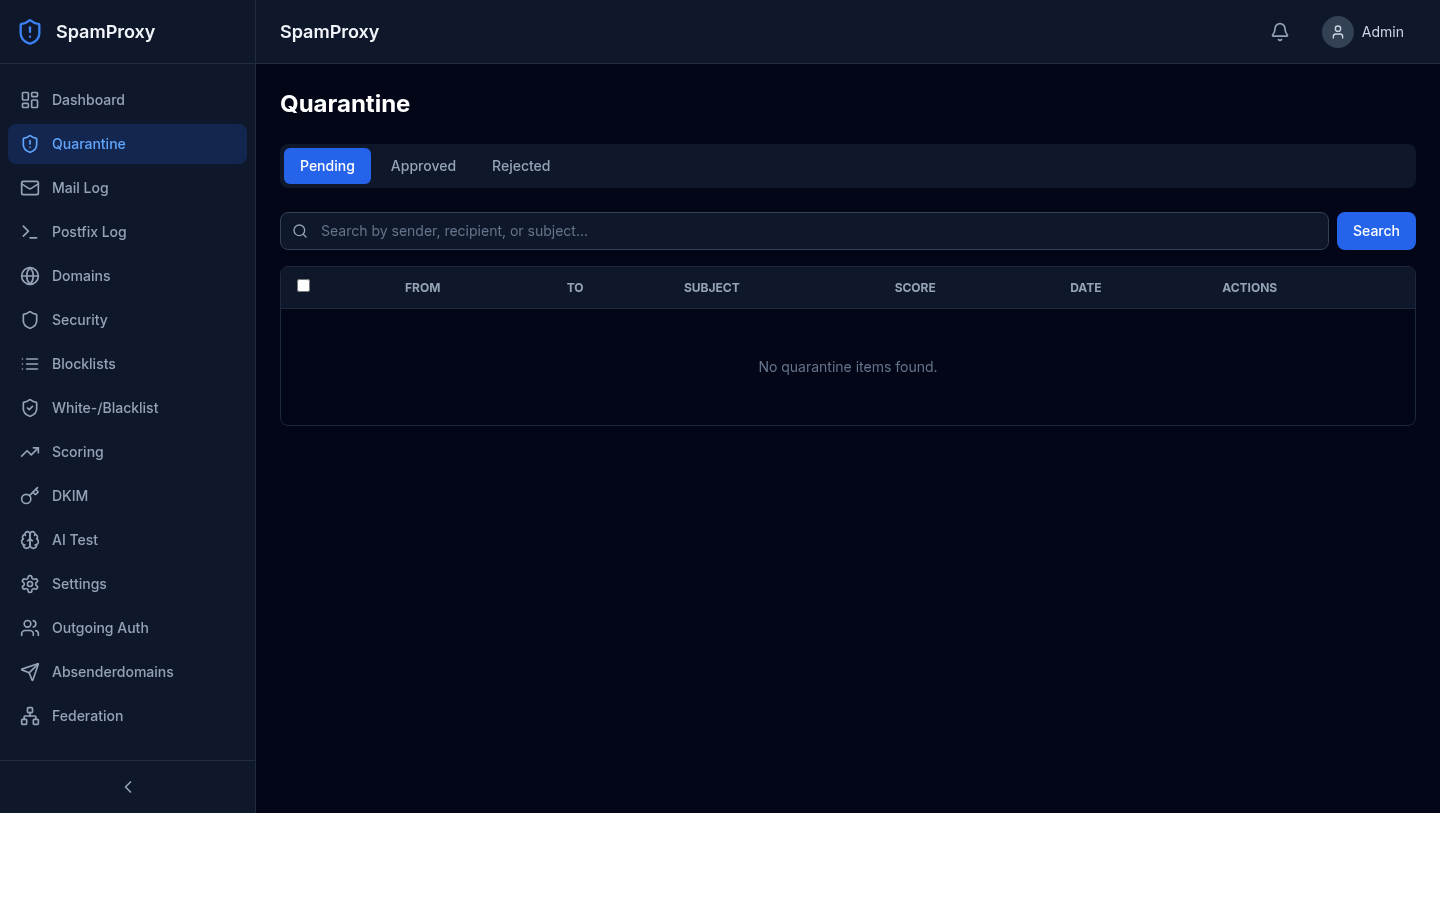
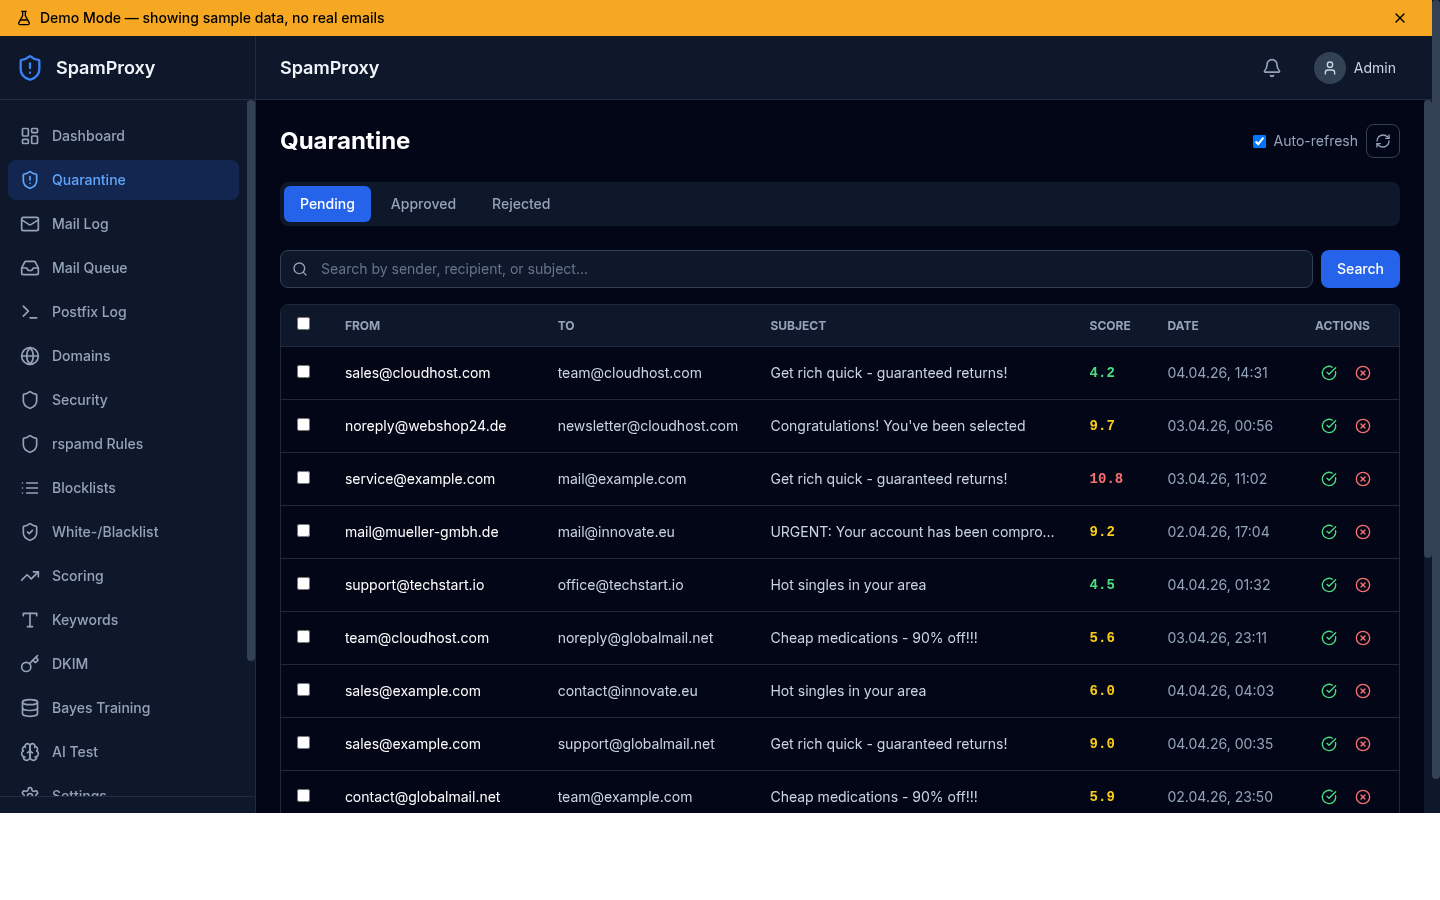
Update screenshots with demo mode data, fix demo fetch
- All screenshots now use demo mode (anonymized fake data)
- Fixed demo mode: apiFetch() function checks URL params directly
  (solves timing issue with useEffect monkey-patching)
- 20 screenshots covering all pages
- Updated README with correct screenshot paths
- Added new pages: Mail Queue, rspamd Rules, Keywords, Bayes Training

diff --git a/web/src/components/layout/demo-fetch-provider.tsx b/web/src/components/layout/demo-fetch-provider.tsx
@@ -1,21 +1,21 @@
 "use client";
 
 import { useEffect } from "react";
-import { isDemoMode } from "@/lib/demo-mode";
+import { isDemoMode, enableDemo } from "@/lib/demo-mode";
 
-/**
- * In demo mode, monkey-patches global fetch() to redirect
- * /api/* calls to /api/demo/* which returns fake data.
- */
 export function DemoFetchProvider({ children }: { children: React.ReactNode }) {
   useEffect(() => {
+    // Also activate demo if ?demo is in URL (for headless browsers/first visit)
+    if (typeof window !== "undefined" && window.location.search.includes("demo")) {
+      enableDemo();
+    }
+
     if (!isDemoMode()) return;
 
     const originalFetch = window.fetch;
     window.fetch = function (input: RequestInfo | URL, init?: RequestInit) {
-      let url = typeof input === "string" ? input : input instanceof URL ? input.toString() : (input as Request).url;
+      const url = typeof input === "string" ? input : input instanceof URL ? input.toString() : (input as Request).url;
       if (url.startsWith("/api/") && !url.startsWith("/api/demo/") && !url.startsWith("/api/auth/")) {
-        // Strip query params for demo routing, keep the path
         const [path] = url.split("?");
         const demoUrl = path.replace("/api/", "/api/demo/");
         return originalFetch(demoUrl, init);

diff --git a/web/src/hooks/use-demo-fetch.ts b/web/src/hooks/use-demo-fetch.ts
@@ -3,13 +3,17 @@
 import { isDemoMode } from "@/lib/demo-mode";
 
 /**
- * Wraps fetch() to redirect API calls to demo endpoints in demo mode.
- * Usage: const data = await demoFetch("/api/stats");
+ * Fetch wrapper that redirects to demo API in demo mode.
+ * Use this instead of raw fetch() in client components.
  */
-export function demoFetch(url: string, options?: RequestInit): Promise<Response> {
-  if (isDemoMode() && url.startsWith("/api/") && !url.startsWith("/api/demo/")) {
-    const demoUrl = url.replace("/api/", "/api/demo/");
-    return fetch(demoUrl, options);
+export function apiFetch(url: string, options?: RequestInit): Promise<Response> {
+  if (typeof window !== "undefined") {
+    // Check URL params too (for first load before cookie is set)
+    const isDemo = isDemoMode() || window.location.search.includes("demo");
+    if (isDemo && url.startsWith("/api/") && !url.startsWith("/api/demo/") && !url.startsWith("/api/auth/")) {
+      const [path] = url.split("?");
+      return fetch(path.replace("/api/", "/api/demo/"), options);
+    }
   }
   return fetch(url, options);
 }

diff --git a/web/src/app/(dashboard)/logs/page.tsx b/web/src/app/(dashboard)/logs/page.tsx
@@ -1,4 +1,5 @@
 "use client";
+import { apiFetch } from "@/hooks/use-demo-fetch";
 
 import { useEffect, useState, useCallback } from "react";
 import { LearnButtons } from "@/components/logs/learn-buttons";
@@ -68,7 +69,7 @@ export default function LogsPage() {
     if (action) params.set("action", action);
     if (search) params.set("search", search);
     try {
-      const res = await fetch(`/api/logs?${params}`);
+      const res = await apiFetch(`/api/logs?${params}`);
       if (res.ok) {
         const data = await res.json();
         setItems(data.items || []);

diff --git a/web/src/app/(dashboard)/quarantine/page.tsx b/web/src/app/(dashboard)/quarantine/page.tsx
@@ -1,4 +1,5 @@
 "use client";
+import { apiFetch } from "@/hooks/use-demo-fetch";
 
 import { useEffect, useState, useCallback } from "react";
 import { QuarantineList } from "@/components/quarantine/quarantine-list";
@@ -29,7 +30,7 @@ export default function QuarantinePage() {
       search,
     });
     try {
-      const res = await fetch(`/api/quarantine?${params}`);
+      const res = await apiFetch(`/api/quarantine?${params}`);
       if (res.ok) {
         const data = await res.json();
         setItems(data.items || []);

diff --git a/web/src/app/(dashboard)/dashboard/page.tsx b/web/src/app/(dashboard)/dashboard/page.tsx
@@ -1,4 +1,5 @@
 "use client";
+import { apiFetch } from "@/hooks/use-demo-fetch";
 
 import { useEffect, useState, useCallback } from "react";
 import { StatsCards } from "@/components/dashboard/stats-cards";
@@ -18,7 +19,7 @@ export default function DashboardPage() {
 
   const fetchStats = useCallback(async () => {
     try {
-      const res = await fetch("/api/stats");
+      const res = await apiFetch("/api/stats");
       if (res.ok) setStats(await res.json());
     } catch {
       // ignore

diff --git a/README.md b/README.md
@@ -10,20 +10,24 @@ SpamProxy is placed as MX in front of your actual mail server and filters both i
 |---|---|
 | ![Login](docs/screenshots/login.png) | ![Dashboard](docs/screenshots/dashboard.png) |
 | Login | Dashboard |
-| ![Quarantine](docs/screenshots/quarantine.png) | ![Mail Log](docs/screenshots/mail-log.png) |
+| ![Quarantine](docs/screenshots/quarantine.png) | ![Mail Log](docs/screenshots/logs.png) |
 | Quarantine | Mail Log |
-| ![Postfix Log](docs/screenshots/postfix-log.png) | ![Security](docs/screenshots/security.png) |
-| Postfix Log | Security & Scanning |
-| ![Scoring](docs/screenshots/scoring.png) | ![Blocklists](docs/screenshots/blocklists.png) |
-| Score Adjustments | DNS Blocklists |
-| ![Access Lists](docs/screenshots/access-lists.png) | ![DKIM](docs/screenshots/dkim.png) |
-| Whitelist / Blacklist | DKIM Keys |
-| ![AI Test](docs/screenshots/ai-test.png) | ![Sender Domains](docs/screenshots/sender-domains.png) |
-| AI Spam Test | Sender Domains |
-| ![Outgoing Auth](docs/screenshots/outgoing-auth.png) | ![Federation](docs/screenshots/federation.png) |
-| Outgoing SMTP Auth | Federation |
-| ![Domains](docs/screenshots/domains.png) | ![Settings](docs/screenshots/settings.png) |
-| Domain Routing | Settings |
+| ![Mail Queue](docs/screenshots/queue.png) | ![Postfix Log](docs/screenshots/postfix-log.png) |
+| Mail Queue | Postfix Log |
+| ![Security](docs/screenshots/settings-security.png) | ![rspamd Rules](docs/screenshots/settings-rspamd-symbols.png) |
+| Security & Scanning | rspamd Rules |
+| ![Blocklists](docs/screenshots/settings-blocklists.png) | ![Whitelist/Blacklist](docs/screenshots/settings-access-lists.png) |
+| DNS Blocklists | Whitelist / Blacklist |
+| ![Scoring](docs/screenshots/settings-scoring.png) | ![Keywords](docs/screenshots/settings-keywords.png) |
+| Score Adjustments | Keyword Rules |
+| ![DKIM](docs/screenshots/settings-dkim.png) | ![Bayes Training](docs/screenshots/settings-bayes.png) |
+| DKIM Keys | Bayes Training |
+| ![AI Test](docs/screenshots/settings-ai-test.png) | ![Domains](docs/screenshots/settings-domains.png) |
+| AI Spam Test | Domain Routing |
+| ![Sender Domains](docs/screenshots/settings-sender-domains.png) | ![Outgoing Auth](docs/screenshots/users.png) |
+| Sender Domains | Outgoing SMTP Auth |
+| ![Federation](docs/screenshots/settings-federation.png) | ![Settings](docs/screenshots/settings.png) |
+| Federation | Settings |
 
 ## Features
 
